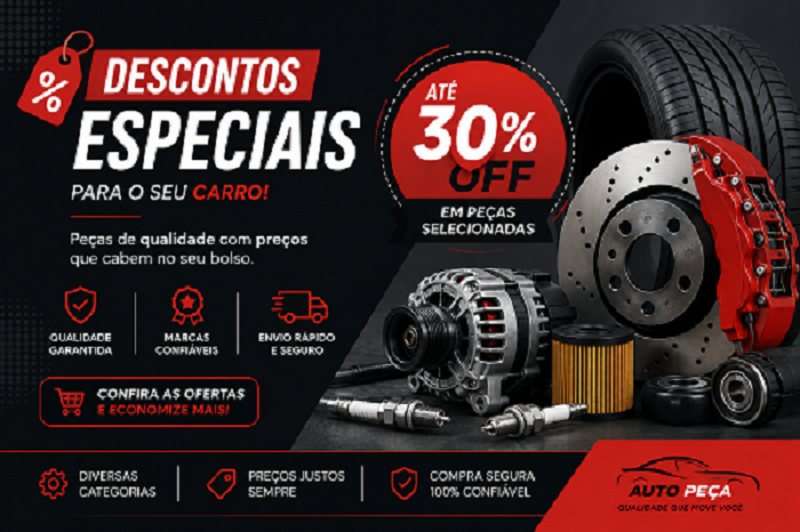
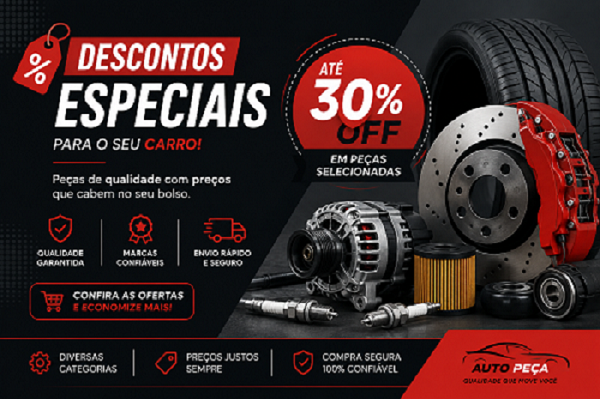
projeto

diff --git a/css/estilo.css b/css/estilo.css
@@ -1,10 +1,25 @@
+*
+{
+    margin: 0;
+   padding: 0;
+}
 body{
    background-color: black;
 } 
 #historia{
     color: white;
 }
+header{
+    display: flex;
+    height: 10vh;
+    background-color: rgb(0, 255, 13);
+    
+}
+main{
+    background-color: aquamarine;
+}
 footer{
+    background-color: chocolate;
     color: white;
 }
 #descontos{
@@ -12,3 +27,8 @@ footer{
     align-items: center;
     
 }
+a{
+color: aliceblue;
+font-size: 30px;
+}
+

diff --git a/inicio.html b/inicio.html
@@ -9,10 +9,12 @@
 <body>
     <header>
         <img src="imagens/autopeca_logo_1.png" alt="seila">
+        <div id="menu">
         <a href="#historia"> historia</a>
         <a href="#contatos">contatos</a>
         <a href="vendas.html">vendas</a>
         <a href="carrinho">carrinho</a>
+    </div>
     </header>
     <main>
         <div id="descontos">
